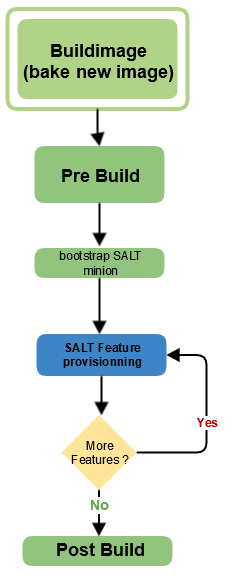
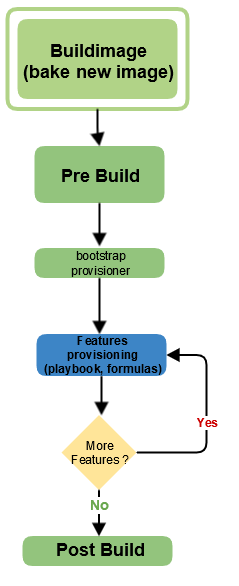
GHOST-353: Update buildimage documentation

Changed region(s): [[0.1757, 0.5529, 0.6736, 0.6451], [0.2343, 0.43, 0.5858, 0.4915]]

diff --git a/source/rst/commands.rst b/source/rst/commands.rst
@@ -9,9 +9,11 @@ Ghost Commands
 Build | buildimage
 ------------------
 
-This command should be the first one triggered after a Ghost Application creation.
-It bakes a new AMI with every feature specified in the application on top of the source AMI choosen. (Generally a Morea Debian AMI)
-Morea uses SaltStack to provision all the choosen features and uses Packer (from HashiCorp) to bake the new AMI.
+| This command should be the first one triggered after a Ghost Application creation.
+| It bakes a new AMI with every feature specified in the application on top of the source AMI choosen. (Generally a Morea Debian AMI)
+| Morea uses SaltStack to provision all the choosen features and uses Packer (from HashiCorp) to bake the new AMI.
+| Ghost can also uses some other feature provisioner like Ansible.
+| 
 
 **Command Options**
 
@@ -30,8 +32,8 @@ Morea uses SaltStack to provision all the choosen features and uses Packer (from
     There are two Hooks available and configurable in the application.
     Thoose hooks are scripts:
 
-        * ``pre_buildimage`` : Script executed on the temporary instance *before* the SALT provisionning
-        * ``post_buildimage`` : Script executed on the temporary instance *after* the SALT provisionning
+        * ``pre_buildimage`` : Script executed on the temporary instance *before* the features provisioning
+        * ``post_buildimage`` : Script executed on the temporary instance *after* the features provisioning
 
 .. figure:: /images/ghost_buildimage.png
 
